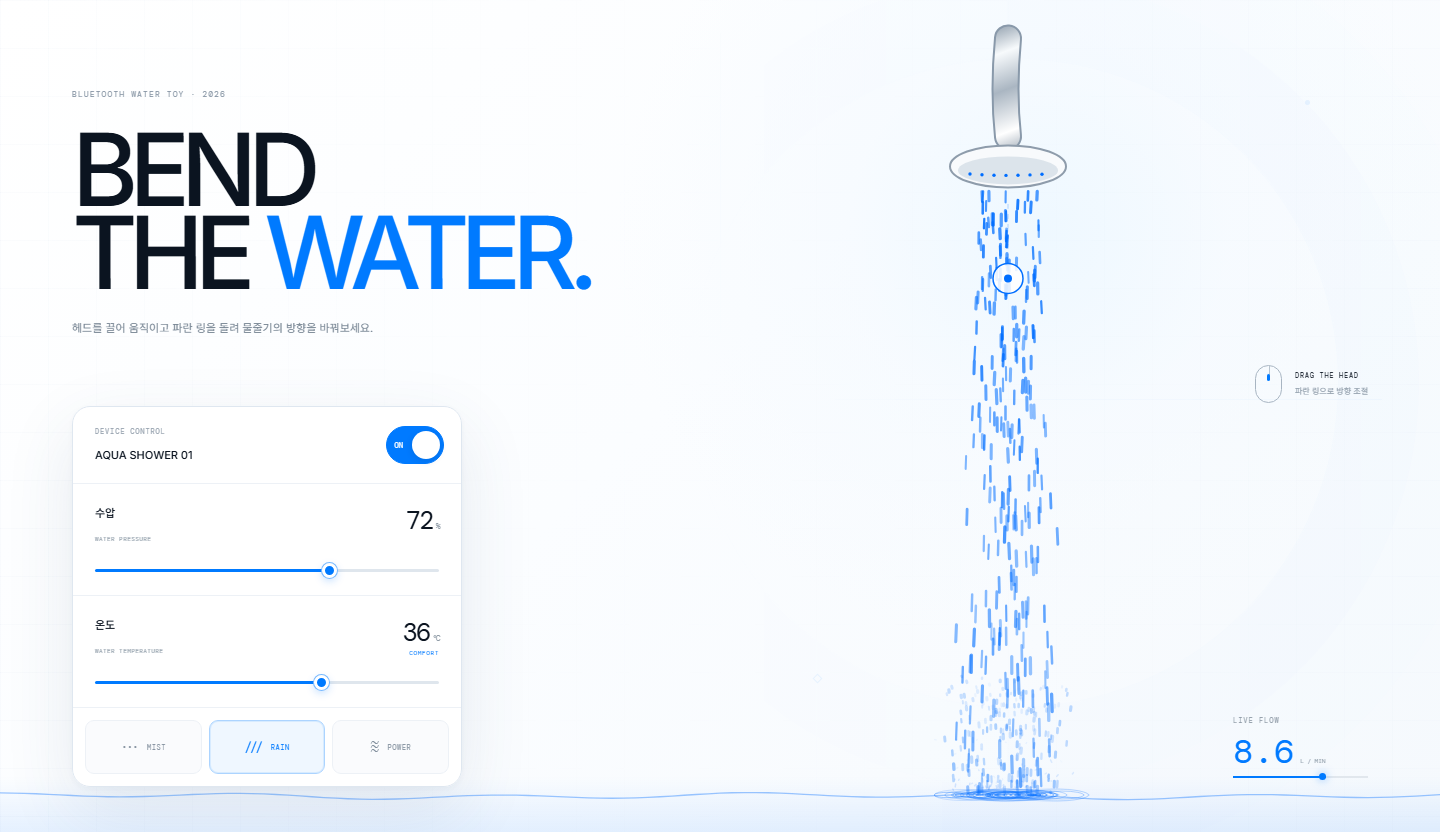
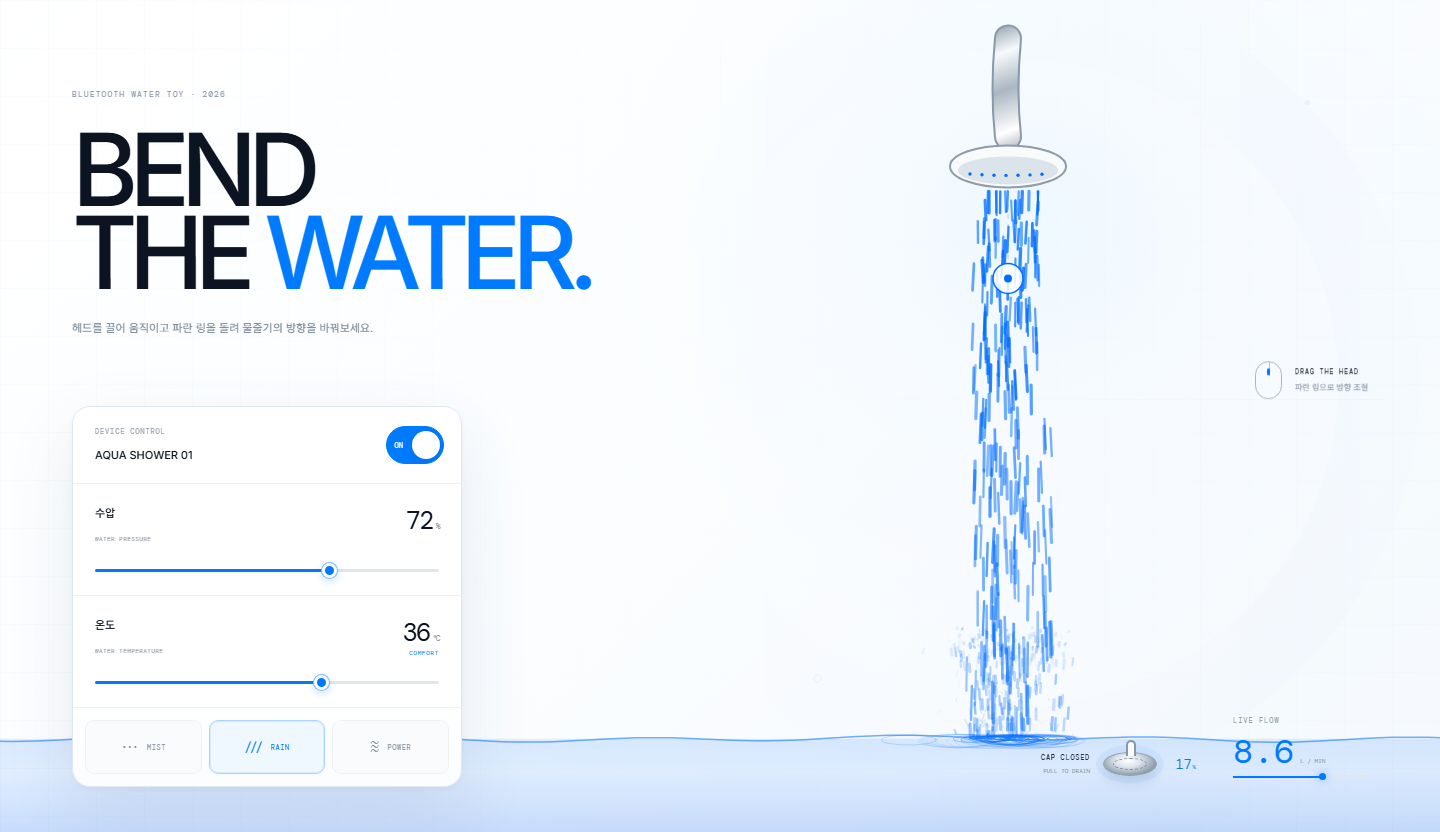
feat: refresh Bluetooth shower water and audio showcase

Changed region(s): [[0.0, 0.2188, 1.0, 1.0], [0.875, 0.4375, 0.9688, 0.4688]]

diff --git a/projects.js b/projects.js
@@ -82,11 +82,11 @@
       image: 'assets/projects/bluetooth-shower-playground.png',
       kind: 'web',
       platform: 'INTERACTIVE WEB · CANVAS PHYSICS',
-      summary: '전원, 수압, 온도와 분사 방향을 직접 조절하며 파란 물줄기와 바닥 튀김을 가지고 노는 블루투스 샤워기 물리 놀이터.',
-      impact: '60fps 실시간 물리 인터랙션',
+      summary: '샤워 헤드를 360° 돌리고 수압·온도를 조절하며, 차오르는 파란 수면과 배수 캡, 네 겹의 물소리를 가지고 노는 블루투스 샤워기 물리 놀이터.',
+      impact: '360° 조준 · 4-Layer Web Audio',
       role: '제품 기획 · AI 협업 개발 · 배포',
       collaboration: true,
-      tags: ['Canvas Physics', 'Interaction', 'Bluetooth UI']
+      tags: ['Canvas Physics', 'Web Audio', '360° Control']
     },
     {
       id: 'hotdog-street-empire',